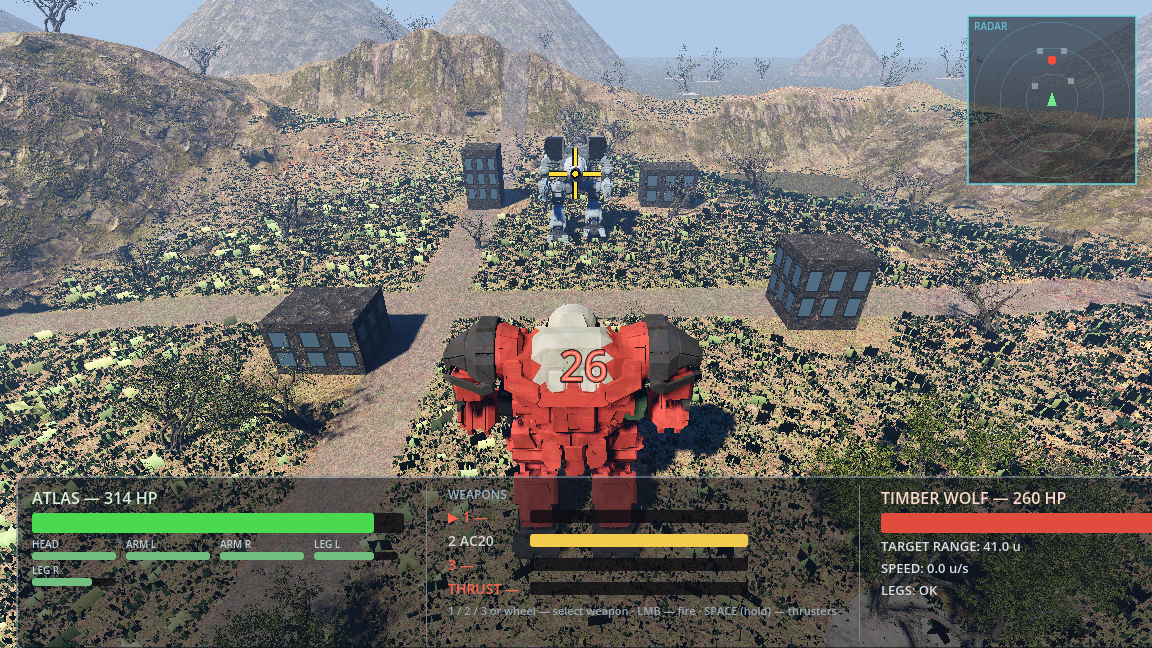
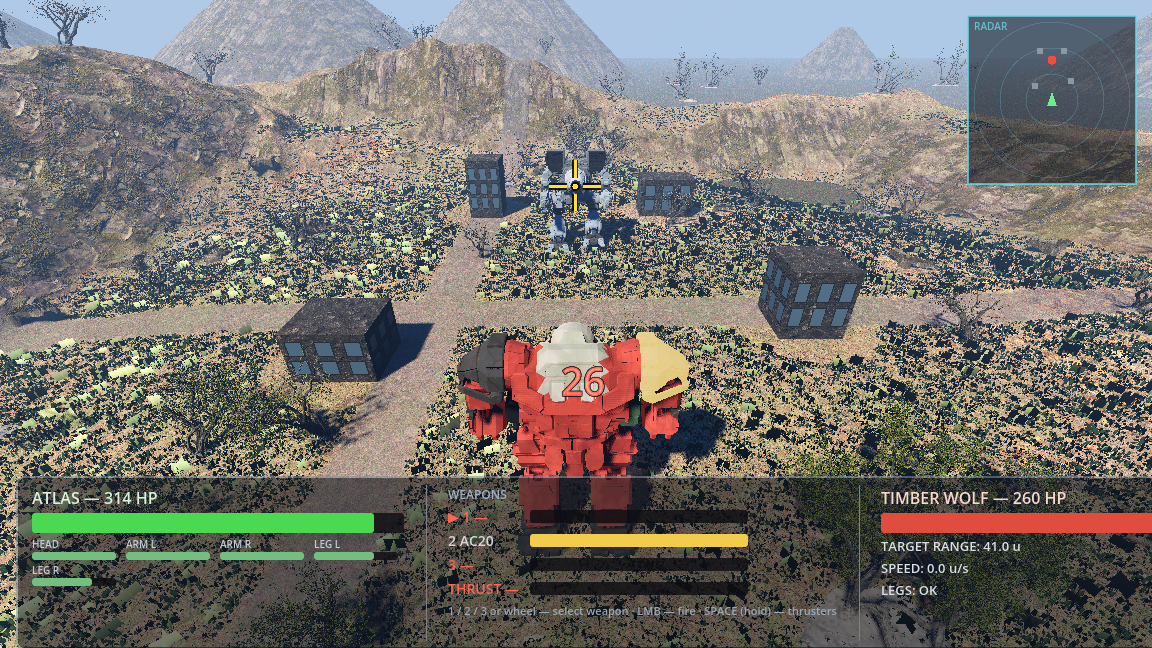
camera: chase framing scales with the selected mech's height
The chase distances (16 back / 23 up / look 4.5 up, 14
forward) were tuned on the 13u Timber Wolf and applied to
every chassis. They now scale by spec.Height/13 — the
Timber Wolf's framing is byte-identical, the 14u Atlas sits
at 17.23 behind (verified by the --atlas-cam diagnostic),
and a future taller or shorter mech is framed the same way.
The aim/cursor needed no change: it is camera-ray truth and
never depended on mech dimensions; muzzles come from the
rig's own bones. Duel + terrain suites green (RUNTEST cmd
still 12.6 from the spec, steady 11.64).

diff --git a/godot/MechDuel.Camera.cs b/godot/MechDuel.Camera.cs
@@ -190,13 +190,17 @@ public partial class MechDuel
             // Centered and HIGH (owner, round 12): no sideways
             // offset — the camera sits on the torso axis, lifted
             // well above the mech so the field in front of it is
-            // visible over the hull.
-            var target = _player.RootPos + back * 16.0f + Vector3.Up * 23.0f;
+            // visible over the hull. Distances scale with the
+            // chassis height (reference: the 13u Timber Wolf this
+            // framing was tuned on), so a taller or shorter mech
+            // is framed the same way.
+            float k = _playerSpec.Height / 13f;
+            var target = _player.RootPos + back * (16.0f * k) + Vector3.Up * (23.0f * k);
             if (delta > 0f)
                 _cam.GlobalPosition = _cam.GlobalPosition.Lerp(target, 1f - Mathf.Exp(-6f * delta));
             else
                 _cam.GlobalPosition = target;
-            var look = _player.RootPos + Vector3.Up * 4.5f + MechWalker.HeadingVec(torsoYaw) * 14f;
+            var look = _player.RootPos + Vector3.Up * (4.5f * k) + MechWalker.HeadingVec(torsoYaw) * (14f * k);
             if (_cam.GlobalPosition.DistanceSquaredTo(look) > 0.01f)
                 _cam.LookAt(look, Vector3.Up);
             if (delta > 0f && _shake > 0.002f)
